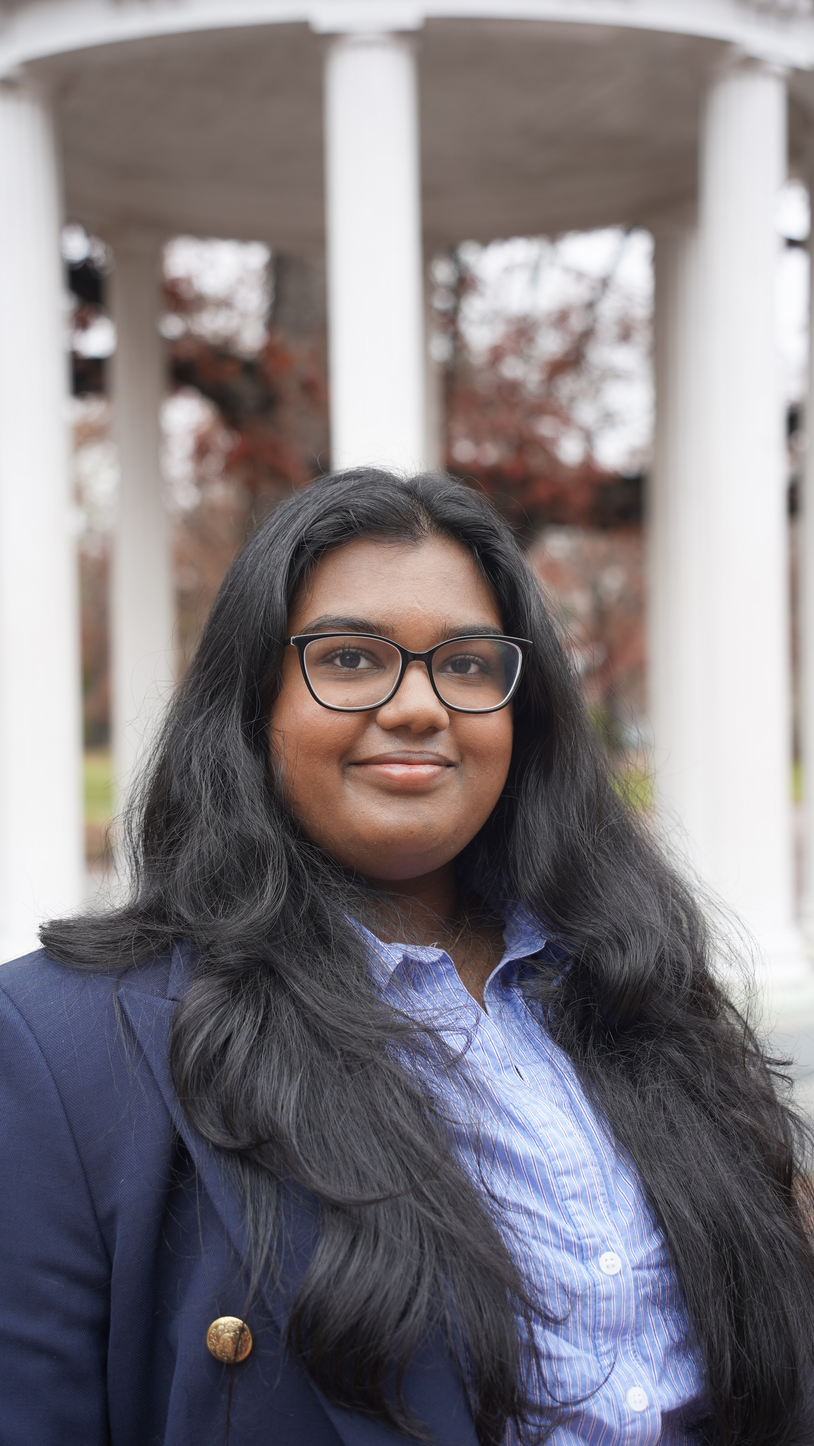
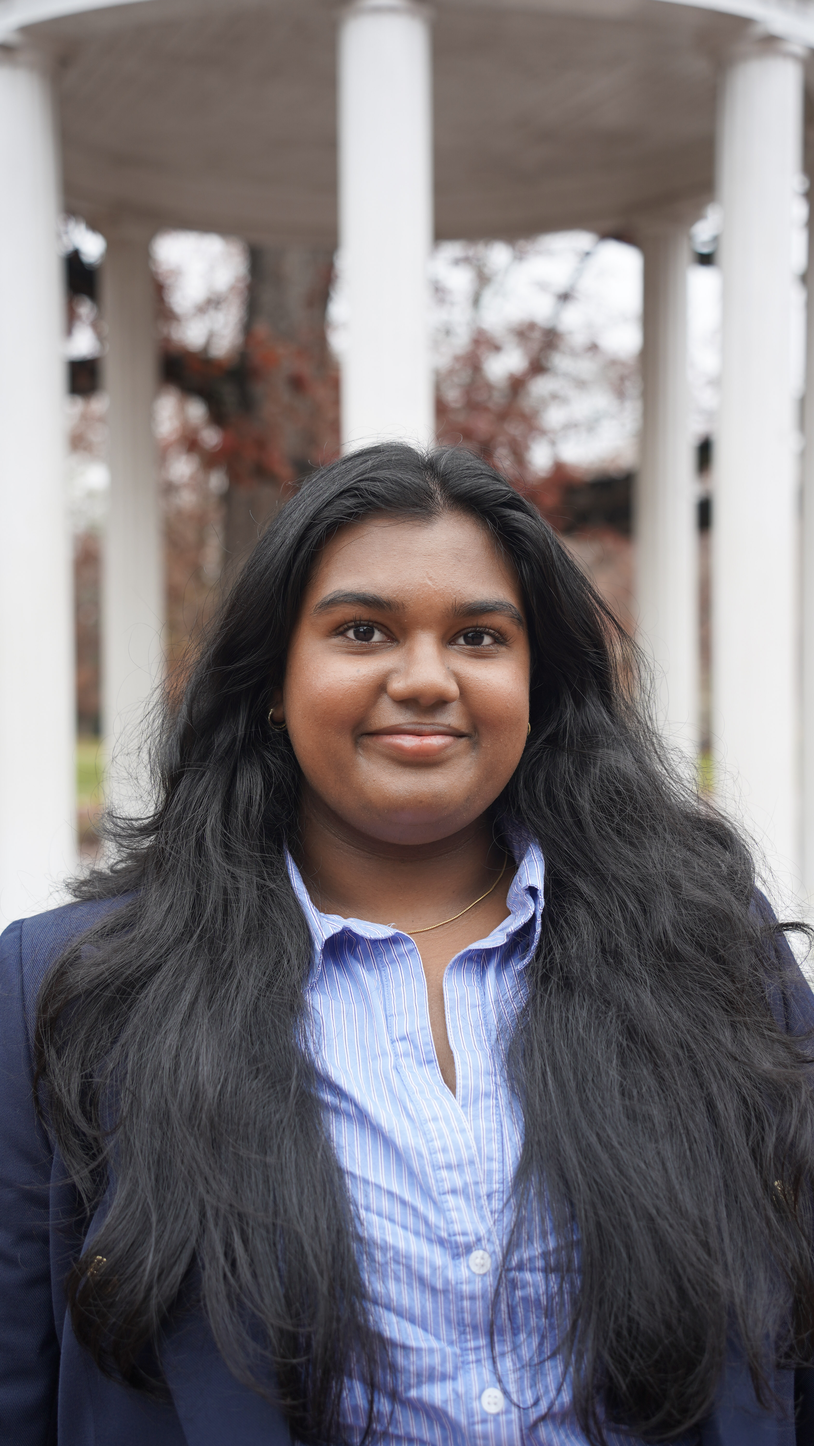
Fix: Fixed heights and photos requested.

diff --git a/src/app/members/executive_board.tsx b/src/app/members/executive_board.tsx
@@ -2,7 +2,7 @@ import { MemberGrid } from "@/components";
 
 const executiveMembers = [
   { name: "Chet Allen",                title: "President",                      chapterClass: "Theta",   linkedin: "https://www.linkedin.com/in/chet-allen-v/",                image: "/image/chet_headshot.jpg", imagePosition: "center 50%" },
-  { name: "Ally Organo",               title: "Vice President",                 chapterClass: "Theta",   linkedin: "https://www.linkedin.com/in/miralyssaorgano/",             image: "/image/ally.jpg", imagePosition: "center 40%" },
+  { name: "Ally Organo",               title: "Vice President",                 chapterClass: "Theta",   linkedin: "https://www.linkedin.com/in/miralyssaorgano/",             image: "/image/allyorgano.jpg", imagePosition: "center 80%" },
   { name: "Zoe Ray",                   title: "Treasurer",                      chapterClass: "Iota",    linkedin: "https://www.linkedin.com/in/zoe-ray-6b6000393/",             image: "/image/zoeray.jpg", imagePosition: "center 45%" },
   { name: "Molly Yang",                title: "Secretary",                      chapterClass: "Iota",    linkedin: "https://www.linkedin.com/in/molly-yang-/",                   image: "/image/mollyyang.jpg", imagePosition: "center 45%" },
   { name: "Brandon Ge",                title: "Director of Recruitment",        chapterClass: "Theta",   linkedin: "https://www.linkedin.com/in/brandonyge/",                   image: "/image/brandonge.jpg", imagePosition: "center 45%" },
@@ -13,11 +13,11 @@ const executiveMembers = [
   { name: "Harsha Thayyil",            title: "Director of DEI",                chapterClass: "Iota",    linkedin: "https://www.linkedin.com/in/harsha-thayyil-8a42112a3/",      image: "/image/harshathayyil.jpg", imagePosition: "center 40%" },
   { name: "Andrew Wang",               title: "Director of Professional Dev.",  chapterClass: "Theta",   linkedin: "https://www.linkedin.com/in/anzwang/",                      image: "/image/andrewwang.jpg", imagePosition: "center" },
   { name: "Sriraam Kumar",             title: "Director of Technical Enrichment",chapterClass: "Iota",    linkedin: "https://www.linkedin.com/in/sskumar6/",                     image: "/image/srikumar.jpg", imagePosition: "center 40%" },
-  { name: "Ally Organo",               title: "Director of Community Service",  chapterClass: "Theta",   linkedin: "https://www.linkedin.com/in/miralyssaorgano/",             image: "/image/ally.jpg", imagePosition: "center 40%" },
+  { name: "Ally Organo",               title: "Director of Community Service",  chapterClass: "Theta",   linkedin: "https://www.linkedin.com/in/miralyssaorgano/",             image: "/image/allyorgano.jpg", imagePosition: "center 80%" },
   { name: "Annalyn Crumpton",          title: "Director of Community Service",  chapterClass: "Iota",    linkedin: "https://www.linkedin.com/in/annalyn-crumpton/",             image: "/image/annalyncrumpton.jpg", imagePosition: "center 40%", imageScale: 1.35 },
-  { name: "Anika Moolan",              title: "Director of Marketing",          chapterClass: "Iota",    linkedin: "https://www.linkedin.com/in/anika-noby-moolan-13b715320/",  image: "/image/anikamoolan.jpg", imagePosition: "center 35%" },
+  { name: "Anika Moolan",              title: "Director of Marketing",          chapterClass: "Iota",    linkedin: "https://www.linkedin.com/in/anika-noby-moolan-13b715320/",  image: "/image/anikamoolan.jpg", imagePosition: "center 70%" },
   { name: "Annalyn Crumpton",          title: "Director of Membership",         chapterClass: "Iota",    linkedin: "https://www.linkedin.com/in/annalyn-crumpton/",             image: "/image/annalyncrumpton.jpg", imagePosition: "center 40%", imageScale: 1.35 },
-  { name: "Sonal Mahapatra",           title: "Director of Chapter Standards",  chapterClass: "Iota",    linkedin: "https://www.linkedin.com/in/sonal-m-a73b8628b/",             image: "/image/sonalmahapatra.jpg", imagePosition: "center 35%" },
+  { name: "Sonal Mahapatra",           title: "Director of Chapter Standards",  chapterClass: "Iota",    linkedin: "https://www.linkedin.com/in/sonal-m-a73b8628b/",             image: "/image/sonalmahapatra.jpg", imagePosition: "center 70%" },
 ];
 
 export default function ExecutiveBoard() {

diff --git a/src/app/members/gen_body_2027.tsx b/src/app/members/gen_body_2027.tsx
@@ -10,8 +10,8 @@ const class_2027 = [
   {
     "name": "Akshara Kolipaka",
     "linkedin": "https://www.linkedin.com/in/aksharakolipaka/",
-    "image": "/image/aksharakolipaka.jpg",
-    "imagePosition": "center 45%",
+    "image": "/image/aksharakolipaka-updated.jpg",
+    "imagePosition": "center 60%",
     "class": "Theta"
   },
   {
@@ -100,7 +100,7 @@ const class_2027 = [
     "name": "Jordan Jemsek",
     "linkedin": "https://www.linkedin.com/in/jordan-jemsek-576b352ba/",
     "image": "/image/jordanjemsek.jpg",
-    "imagePosition": "center 35%",
+    "imagePosition": "center 75%",
     "class": "Theta"
   },
   {

diff --git a/src/app/members/gen_body_2029.tsx b/src/app/members/gen_body_2029.tsx
@@ -31,7 +31,7 @@ const class_2029: ClassMember[] = [
     "name": "Anika Moolan",
     "linkedin": "https://www.linkedin.com/in/anika-noby-moolan-13b715320/",
     "image": "/image/anikamoolan.jpg",
-    "imagePosition": "center 35%",
+    "imagePosition": "center 70%",
     "class": "Iota"
   },
   {
@@ -118,7 +118,7 @@ const class_2029: ClassMember[] = [
     "name": "Sonal Mahapatra",
     "linkedin": "https://www.linkedin.com/in/sonal-m-a73b8628b/",
     "image": "/image/sonalmahapatra.jpg",
-    "imagePosition": "center 35%",
+    "imagePosition": "center 70%",
     "class": "Iota"
   },
   {

diff --git a/src/app/members/gen_body_2028.tsx b/src/app/members/gen_body_2028.tsx
@@ -16,8 +16,8 @@ const class_2028 = [
   {
     "name": "Ally Organo",
     "linkedin": "https://www.linkedin.com/in/miralyssaorgano/",
-    "image": "/image/ally.jpg",
-    "imagePosition": "center 40%",
+    "image": "/image/allyorgano.jpg",
+    "imagePosition": "center 80%",
     "class": "Theta"
   },
   {
